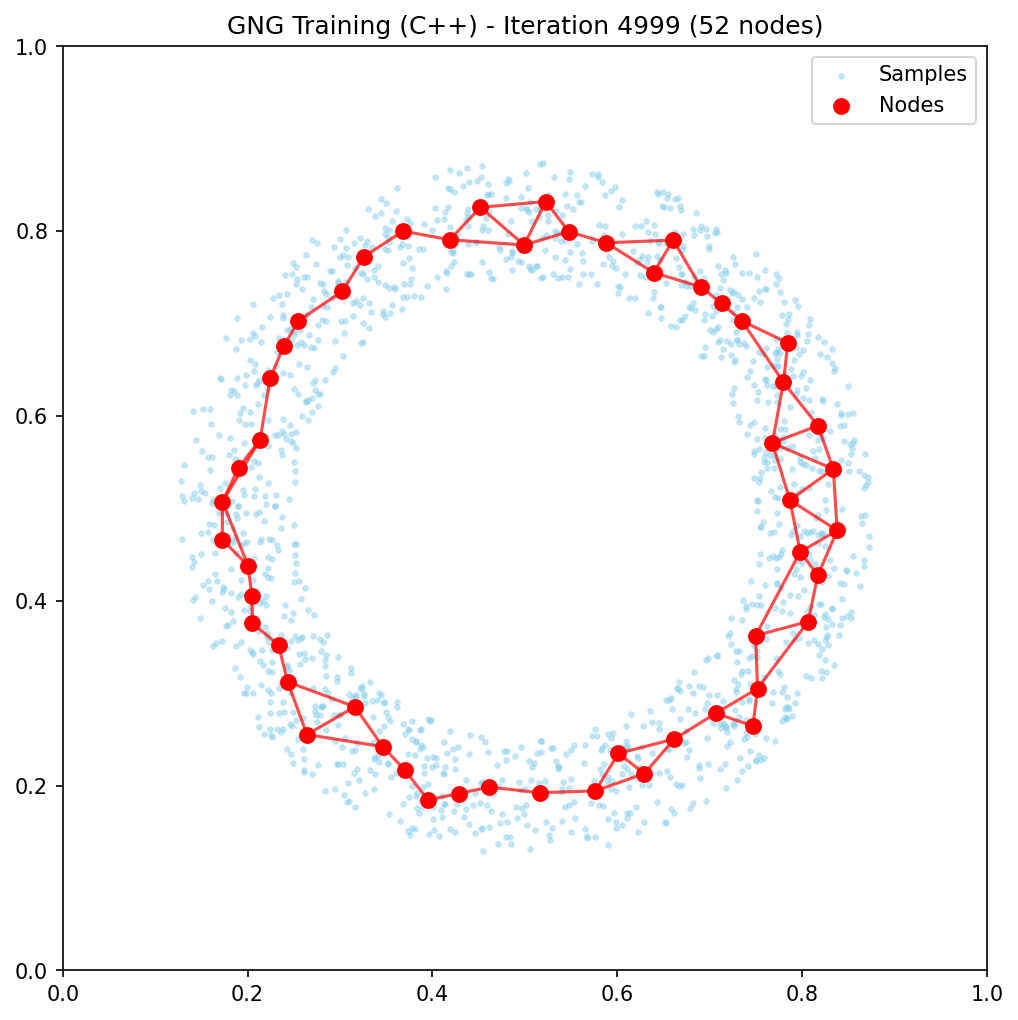
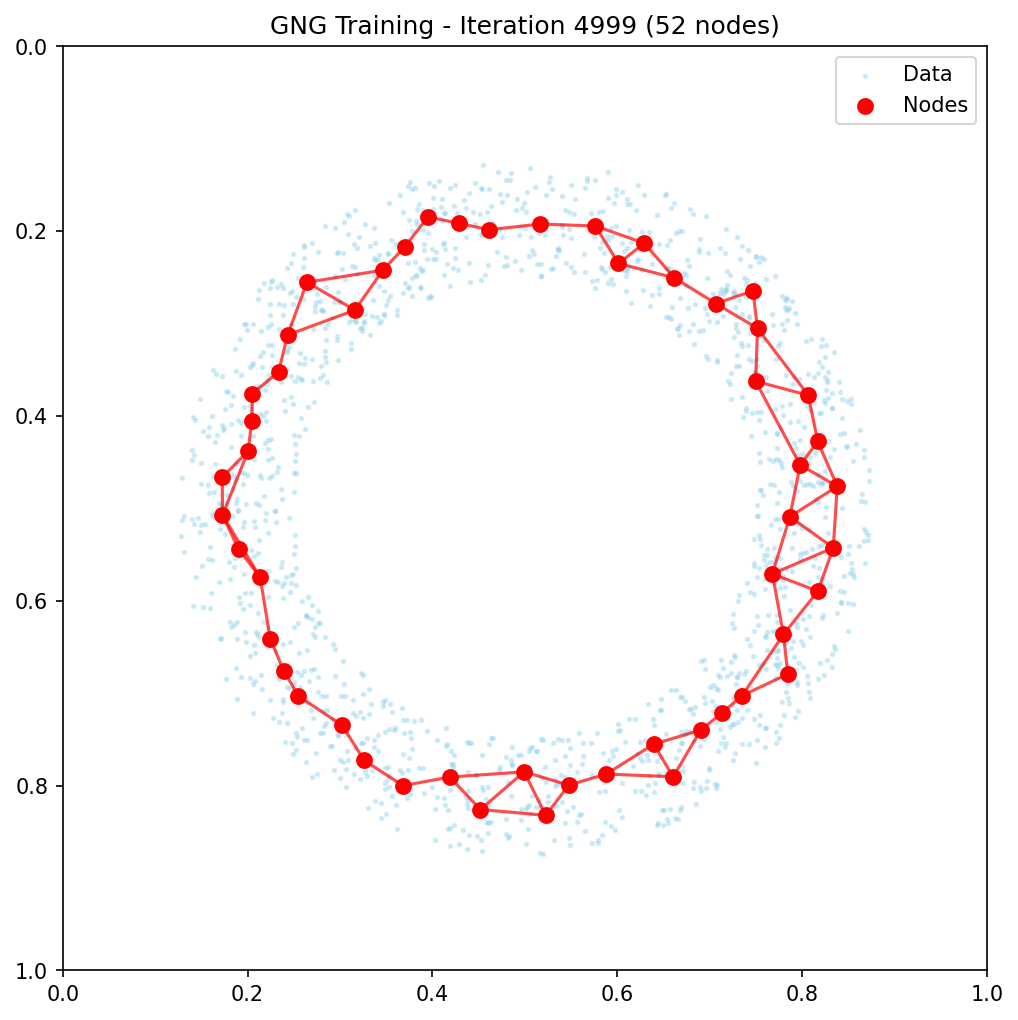
Match C++ visualization and parameters to Python version
- Update visualize_results.py:
  - Single ring: flip Y-axis, use "Data" label
  - Tracking: add orbit path, ring fill, blue + center marker
  - Match axis limits and duration to Python version

- Update test_gng_tracking.cpp parameters:
  - max_nodes: 100 -> 50
  - eps_n: 0.015 -> 0.01
  - n_frames: 200 -> 120

- Regenerate sample GIFs with matching visualization

diff --git a/experiments/2d_visualization/cpp/visualize_results.py b/experiments/2d_visualization/cpp/visualize_results.py
@@ -1,5 +1,7 @@
 """Visualize GNG results from C++ experiments.
 
+This script matches the visualization style of the Python test scripts.
+
 Usage:
     # Visualize single ring test
     python visualize_results.py single_ring_output --output gng_single_ring.gif
@@ -41,19 +43,21 @@ def load_edges(path: Path) -> list[tuple[int, int]]:
     return [(int(row["i"]), int(row["j"])) for _, row in df.iterrows()]
 
 
-def create_frame(
+def create_single_ring_frame(
     ax,
     samples: np.ndarray,
     nodes: np.ndarray,
     edges: list[tuple[int, int]],
-    title: str,
-    center: np.ndarray | None = None,
+    iteration: int,
 ) -> None:
-    """Create a single visualization frame."""
+    """Create a single frame for single ring visualization.
+
+    Matches the Python version: test_gng_single_ring.py
+    """
     ax.clear()
 
-    # Plot samples
-    ax.scatter(samples[:, 0], samples[:, 1], c="skyblue", s=5, alpha=0.4, label="Samples")
+    # Plot sample points (matching Python version style)
+    ax.scatter(samples[:, 0], samples[:, 1], c="skyblue", s=3, alpha=0.3, label="Data")
 
     # Plot edges
     for i, j in edges:
@@ -70,15 +74,88 @@ def create_frame(
     if len(nodes) > 0:
         ax.scatter(nodes[:, 0], nodes[:, 1], c="red", s=50, zorder=5, label="Nodes")
 
-    # Plot center (for tracking)
-    if center is not None:
-        ax.scatter(center[0], center[1], c="green", s=100, marker="x", zorder=6, label="Center")
-
     ax.set_xlim(0, 1)
-    ax.set_ylim(0, 1)
+    ax.set_ylim(1, 0)  # Flip y-axis to match image coordinates (like Python version)
     ax.set_aspect("equal")
-    ax.set_title(title)
+    ax.set_title(f"GNG Training - Iteration {iteration} ({len(nodes)} nodes)")
     ax.legend(loc="upper right")
+
+
+def create_tracking_frame(
+    ax,
+    samples: np.ndarray,
+    nodes: np.ndarray,
+    edges: list[tuple[int, int]],
+    ring_center: np.ndarray,
+    ring_r_inner: float,
+    ring_r_outer: float,
+    orbit_center: np.ndarray,
+    orbit_radius: float,
+    frame: int,
+    total_frames: int,
+) -> None:
+    """Create a single frame for tracking visualization.
+
+    Matches the Python version: test_gng_tracking.py
+    """
+    ax.clear()
+
+    # Draw orbit path (dashed circle)
+    theta = np.linspace(0, 2 * np.pi, 100)
+    orbit_x = orbit_center[0] + orbit_radius * np.cos(theta)
+    orbit_y = orbit_center[1] + orbit_radius * np.sin(theta)
+    ax.plot(orbit_x, orbit_y, "g--", alpha=0.3, linewidth=1, label="Orbit")
+
+    # Draw ring outline with fill
+    ring_outer_x = ring_center[0] + ring_r_outer * np.cos(theta)
+    ring_outer_y = ring_center[1] + ring_r_outer * np.sin(theta)
+    ring_inner_x = ring_center[0] + ring_r_inner * np.cos(theta)
+    ring_inner_y = ring_center[1] + ring_r_inner * np.sin(theta)
+    ax.fill(ring_outer_x, ring_outer_y, color="skyblue", alpha=0.3)
+    ax.fill(ring_inner_x, ring_inner_y, color="white")
+    ax.plot(ring_outer_x, ring_outer_y, "c-", alpha=0.5, linewidth=1)
+    ax.plot(ring_inner_x, ring_inner_y, "c-", alpha=0.5, linewidth=1)
+
+    # Draw current samples
+    ax.scatter(
+        samples[:, 0],
+        samples[:, 1],
+        c="skyblue",
+        s=5,
+        alpha=0.5,
+        label="Current samples",
+    )
+
+    # Draw GNG edges
+    for i, j in edges:
+        if i < len(nodes) and j < len(nodes):
+            ax.plot(
+                [nodes[i, 0], nodes[j, 0]],
+                [nodes[i, 1], nodes[j, 1]],
+                "r-",
+                linewidth=1.5,
+                alpha=0.7,
+            )
+
+    # Draw GNG nodes
+    if len(nodes) > 0:
+        ax.scatter(
+            nodes[:, 0],
+            nodes[:, 1],
+            c="red",
+            s=40,
+            zorder=5,
+            label=f"GNG ({len(nodes)} nodes)",
+        )
+
+    # Draw ring center (blue + marker like Python version)
+    ax.scatter([ring_center[0]], [ring_center[1]], c="blue", s=30, marker="+", zorder=6)
+
+    ax.set_xlim(-0.1, 1.1)
+    ax.set_ylim(-0.1, 1.1)
+    ax.set_aspect("equal")
+    ax.set_title(f"GNG Tracking - Frame {frame}/{total_frames}")
+    ax.legend(loc="upper right", fontsize=8)
 
 
 def visualize_single_ring(input_dir: Path, output_path: str, fps: int = 10):
@@ -103,10 +180,7 @@ def visualize_single_ring(input_dir: Path, output_path: str, fps: int = 10):
         nodes = load_nodes(input_dir / f"nodes_{suffix}.csv")
         edges = load_edges(input_dir / f"edges_{suffix}.csv")
 
-        create_frame(
-            ax, samples, nodes, edges,
-            f"GNG Training (C++) - Iteration {iteration} ({len(nodes)} nodes)"
-        )
+        create_single_ring_frame(ax, samples, nodes, edges, iteration)
 
         fig.canvas.draw()
         img = Image.frombuffer("RGBA", fig.canvas.get_width_height(), fig.canvas.buffer_rgba())
@@ -118,13 +192,12 @@ def visualize_single_ring(input_dir: Path, output_path: str, fps: int = 10):
     # Add final frame copies
     images.extend([images[-1]] * 10)
 
-    # Save GIF
-    duration = 1000 // fps  # ms per frame
+    # Save GIF (duration=100ms like Python version)
     images[0].save(
         output_path,
         save_all=True,
         append_images=images[1:],
-        duration=duration,
+        duration=100,
         loop=0,
     )
     print(f"Saved GIF: {output_path}")
@@ -137,7 +210,7 @@ def visualize_single_ring(input_dir: Path, output_path: str, fps: int = 10):
     plt.close(fig)
 
 
-def visualize_tracking(input_dir: Path, output_path: str, fps: int = 20):
+def visualize_tracking(input_dir: Path, output_path: str, fps: int = 12):
     """Visualize tracking test results."""
     print(f"Loading results from {input_dir}")
 
@@ -145,7 +218,17 @@ def visualize_tracking(input_dir: Path, output_path: str, fps: int = 20):
     meta_df = pd.read_csv(input_dir / "metadata.csv")
     metadata = dict(zip(meta_df["key"], meta_df["value"]))
     n_frames = int(metadata["n_frames"])
+    orbit_center_x = float(metadata["orbit_center_x"])
+    orbit_center_y = float(metadata["orbit_center_y"])
+    orbit_radius = float(metadata["orbit_radius"])
+    ring_r_inner = float(metadata["ring_r_inner"])
+    ring_r_outer = float(metadata["ring_r_outer"])
+
+    orbit_center = np.array([orbit_center_x, orbit_center_y])
+
     print(f"Tracking: {n_frames} frames")
+    print(f"Orbit: center=({orbit_center_x}, {orbit_center_y}), radius={orbit_radius}")
+    print(f"Ring: r_inner={ring_r_inner}, r_outer={ring_r_outer}")
 
     # Create visualization
     fig, ax = plt.subplots(figsize=(8, 8), facecolor="white")
@@ -158,12 +241,13 @@ def visualize_tracking(input_dir: Path, output_path: str, fps: int = 20):
         edges = load_edges(input_dir / f"frame_{suffix}_edges.csv")
 
         center_df = pd.read_csv(input_dir / f"frame_{suffix}_center.csv")
-        center = center_df[["x", "y"]].values[0]
+        ring_center = center_df[["x", "y"]].values[0]
 
-        create_frame(
+        create_tracking_frame(
             ax, samples, nodes, edges,
-            f"GNG Tracking (C++) - Frame {frame} ({len(nodes)} nodes)",
-            center=center,
+            ring_center, ring_r_inner, ring_r_outer,
+            orbit_center, orbit_radius,
+            frame + 1, n_frames,
         )
 
         fig.canvas.draw()
@@ -171,18 +255,17 @@ def visualize_tracking(input_dir: Path, output_path: str, fps: int = 20):
         images.append(img.convert("RGB"))
 
         if frame % 20 == 0:
-            print(f"Frame {frame}/{n_frames}: {len(nodes)} nodes, center=({center[0]:.2f}, {center[1]:.2f})")
+            print(f"Frame {frame}/{n_frames}: {len(nodes)} nodes, center=({ring_center[0]:.2f}, {ring_center[1]:.2f})")
 
     # Add final frame copies
     images.extend([images[-1]] * 10)
 
-    # Save GIF
-    duration = 1000 // fps  # ms per frame
+    # Save GIF (duration=80ms like Python version)
     images[0].save(
         output_path,
         save_all=True,
         append_images=images[1:],
-        duration=duration,
+        duration=80,
         loop=0,
     )
     print(f"Saved GIF: {output_path}")

diff --git a/experiments/2d_visualization/cpp/test_gng_tracking.cpp b/experiments/2d_visualization/cpp/test_gng_tracking.cpp
@@ -107,9 +107,9 @@ void save_center(float x, float y, const std::string& path) {
 }
 
 int main(int argc, char* argv[]) {
-    // Default parameters
+    // Default parameters (matching Python version)
     std::string output_dir = "tracking_output";
-    int n_frames = 200;
+    int n_frames = 120;          // Match Python version
     int samples_per_frame = 50;
     unsigned int seed = 42;
 
@@ -138,15 +138,15 @@ int main(int argc, char* argv[]) {
     const float orbit_center_y = 0.5f;
     const float orbit_radius = 0.25f;
 
-    // Setup GNG with tracking-optimized parameters
+    // Setup GNG with tracking-optimized parameters (matching Python version)
     gng::GNGParams params;
-    params.max_nodes = 100;
-    params.lambda = 20;      // More frequent node insertion for tracking
-    params.eps_b = 0.15f;    // Higher learning rate for faster adaptation
-    params.eps_n = 0.015f;
+    params.max_nodes = 50;       // Match Python version
+    params.lambda = 20;          // More frequent node insertion for tracking
+    params.eps_b = 0.15f;        // Higher learning rate for faster adaptation
+    params.eps_n = 0.01f;        // Match Python version
     params.alpha = 0.5f;
-    params.beta = 0.01f;     // Faster error decay
-    params.max_age = 30;     // Shorter edge lifetime for better adaptation
+    params.beta = 0.01f;         // Faster error decay
+    params.max_age = 30;         // Shorter edge lifetime for better adaptation
 
     std::cout << "GNG Parameters (tracking-optimized):\n";
     std::cout << "  max_nodes: " << params.max_nodes << "\n";
